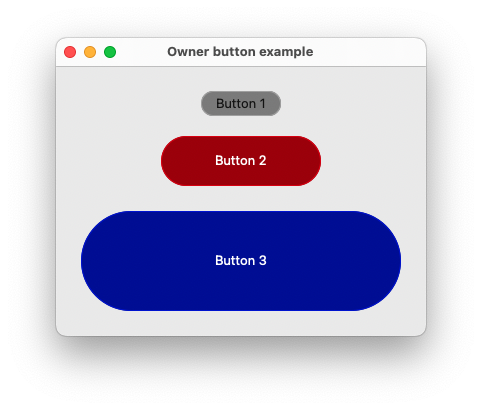
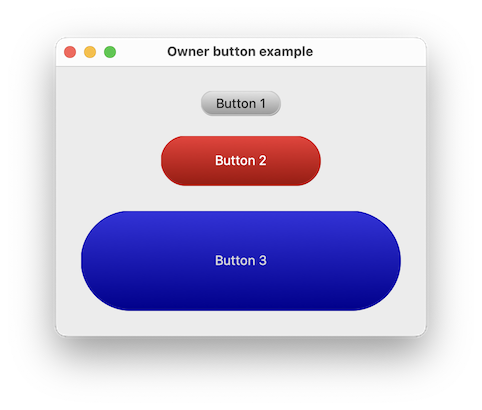
Fix owner_button example

diff --git a/examples/xtd.forms.examples/user_controls/owner_button/src/owner_button.cpp b/examples/xtd.forms.examples/user_controls/owner_button/src/owner_button.cpp
@@ -30,7 +30,7 @@ namespace examples {
         text_color = application::style_sheet().system_colors().gray_text();
       }
       
-      e.graphics().fill_rounded_rectangle(drawing2d::linear_gradient_brush(point {e.clip_rectangle().x(), e.clip_rectangle().top()}, point {e.clip_rectangle().x(), e.clip_rectangle().bottom()}, control_paint::light(button_color, .2), control_paint::dark(button_color)), e.clip_rectangle().x(), e.clip_rectangle().y(), e.clip_rectangle().width(), e.clip_rectangle().height(), e.clip_rectangle().height() / 2);
+      e.graphics().fill_rounded_rectangle(drawing2d::linear_gradient_brush(e.clip_rectangle(), control_paint::light(button_color, .2), control_paint::dark(button_color), drawing2d::linear_gradient_mode::vertical), e.clip_rectangle().x(), e.clip_rectangle().y(), e.clip_rectangle().width(), e.clip_rectangle().height(), e.clip_rectangle().height() / 2);
       e.graphics().draw_rounded_rectangle(pen(border_color, 1), e.clip_rectangle().x(), e.clip_rectangle().y(), e.clip_rectangle().width() - 1, e.clip_rectangle().height() - 1, e.clip_rectangle().height() / 2);
       e.graphics().draw_string(text(), font(), solid_brush(text_color), rectangle(e.clip_rectangle().x() + 5, e.clip_rectangle().y() + 3, e.clip_rectangle().width() - 10, e.clip_rectangle().height() - 7), string_format().alignment(string_alignment::center).line_alignment(string_alignment::center));
     }
